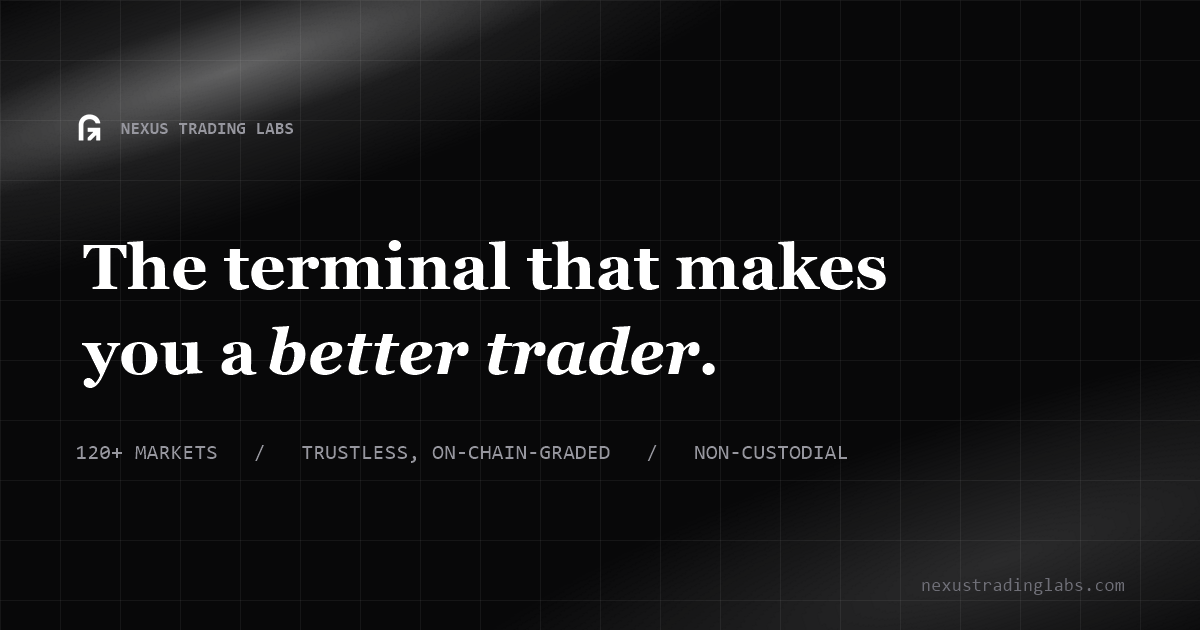
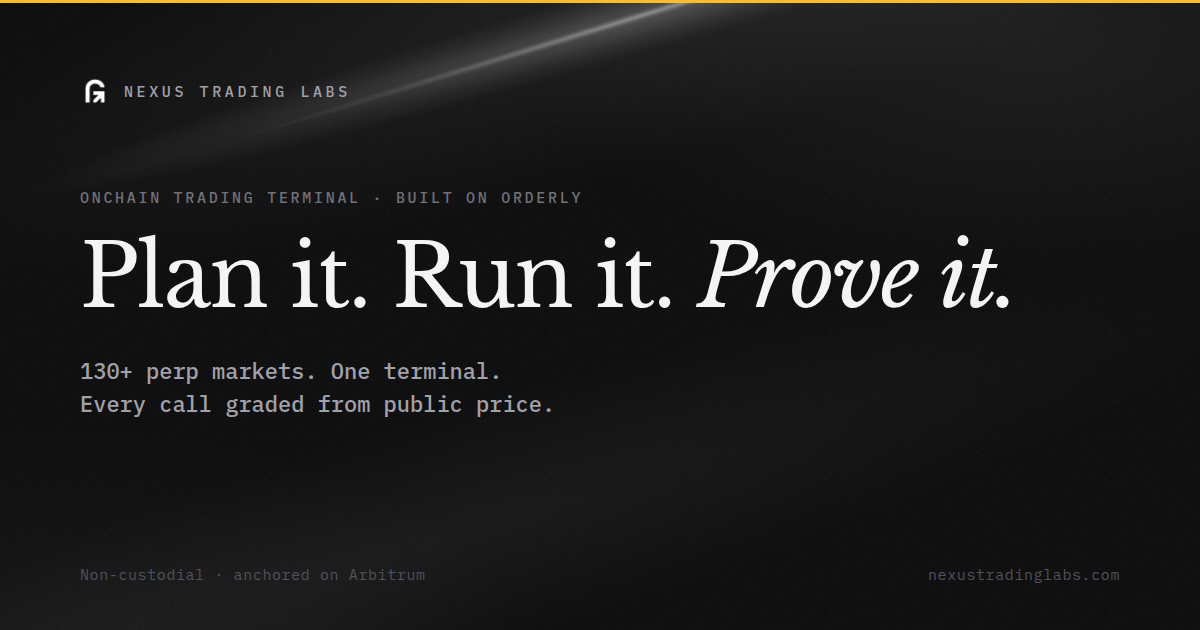
Link preview: new preview.png in the landing brand
The old preview still had the retired grid backdrop, "120+ markets" and "trustless,
on-chain-graded". The new one mirrors the hero word for word (Plan it. Run it. Prove it. ·
130+ perp markets) on the silk-light artwork with the amber accent rule. Rendered from
nexus tools/brand/previews.html?card=landing; og:image URL versioned so X re-fetches.

Claude-Session: https://claude.ai/code/session_01L9jxPdcy9na3mvqwZFgHxN

diff --git a/index.html b/index.html
@@ -7,13 +7,13 @@
   <meta name="description" content="An onchain trading terminal. Plan the trade. Run it yourself or hand it to an agent. Graded from public price, anchored on Arbitrum. Non-custodial. Built on Orderly."/>
   <meta property="og:title" content="Nexus Trading Labs — Plan it. Run it. Prove it."/>
   <meta property="og:description" content="Plan the trade. Run it yourself or hand it to an agent. Graded from public price. Anchored on Arbitrum. Your keys stay yours."/>
-  <meta property="og:image" content="https://nexustradinglabs.com/preview.png"/>
+  <meta property="og:image" content="https://nexustradinglabs.com/preview.png?v=2026-09-28"/>
   <meta property="og:url" content="https://nexustradinglabs.com"/>
   <meta property="og:type" content="website"/>
   <meta name="twitter:card" content="summary_large_image"/>
   <meta name="twitter:title" content="Nexus Trading Labs — Plan it. Run it. Prove it."/>
   <meta name="twitter:description" content="Plan the trade. Run it yourself or hand it to an agent. Graded from public price. Anchored on Arbitrum. Your keys stay yours."/>
-  <meta name="twitter:image" content="https://nexustradinglabs.com/preview.png"/>
+  <meta name="twitter:image" content="https://nexustradinglabs.com/preview.png?v=2026-09-28"/>
   <link href="https://fonts.googleapis.com/css2?family=IBM+Plex+Mono:wght@300;400;500;600&family=Manrope:wght@400;500;600;700;800&family=Libre+Baskerville:ital,wght@0,400;0,700;1,400&display=swap" rel="stylesheet">
   <style>
     *,*::before,*::after{box-sizing:border-box;margin:0;padding:0}
